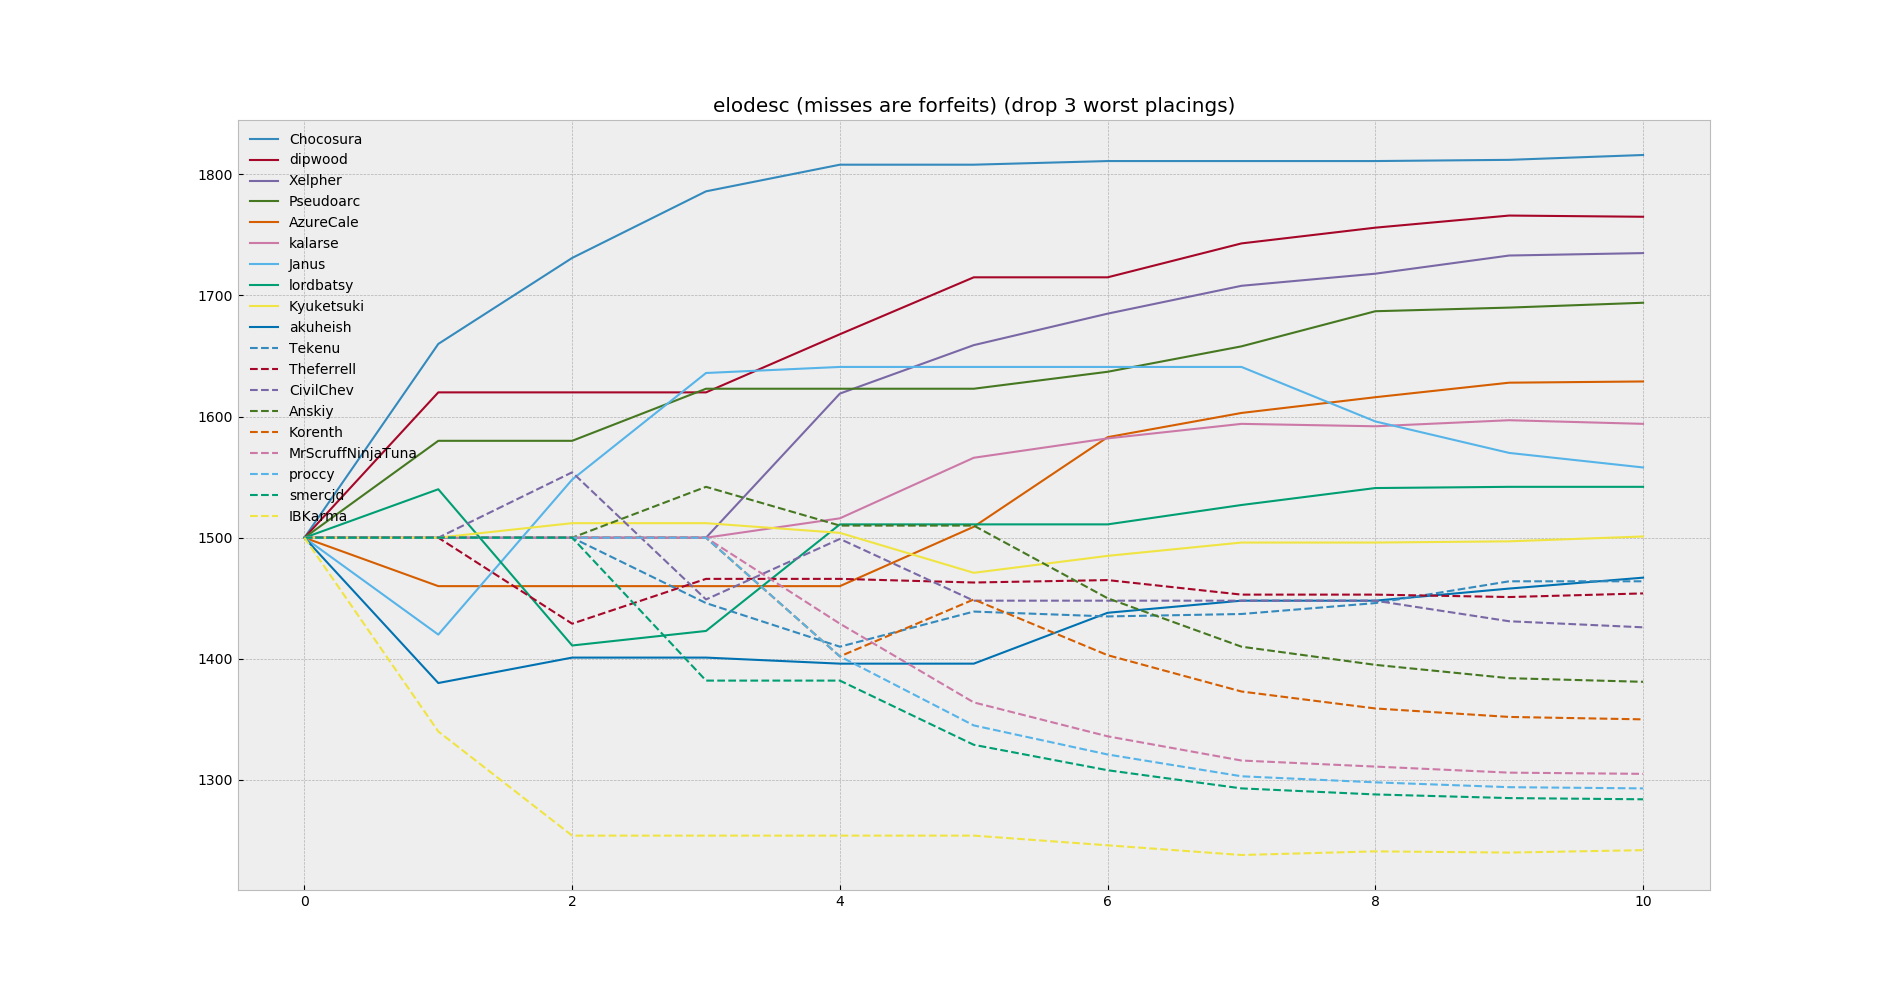
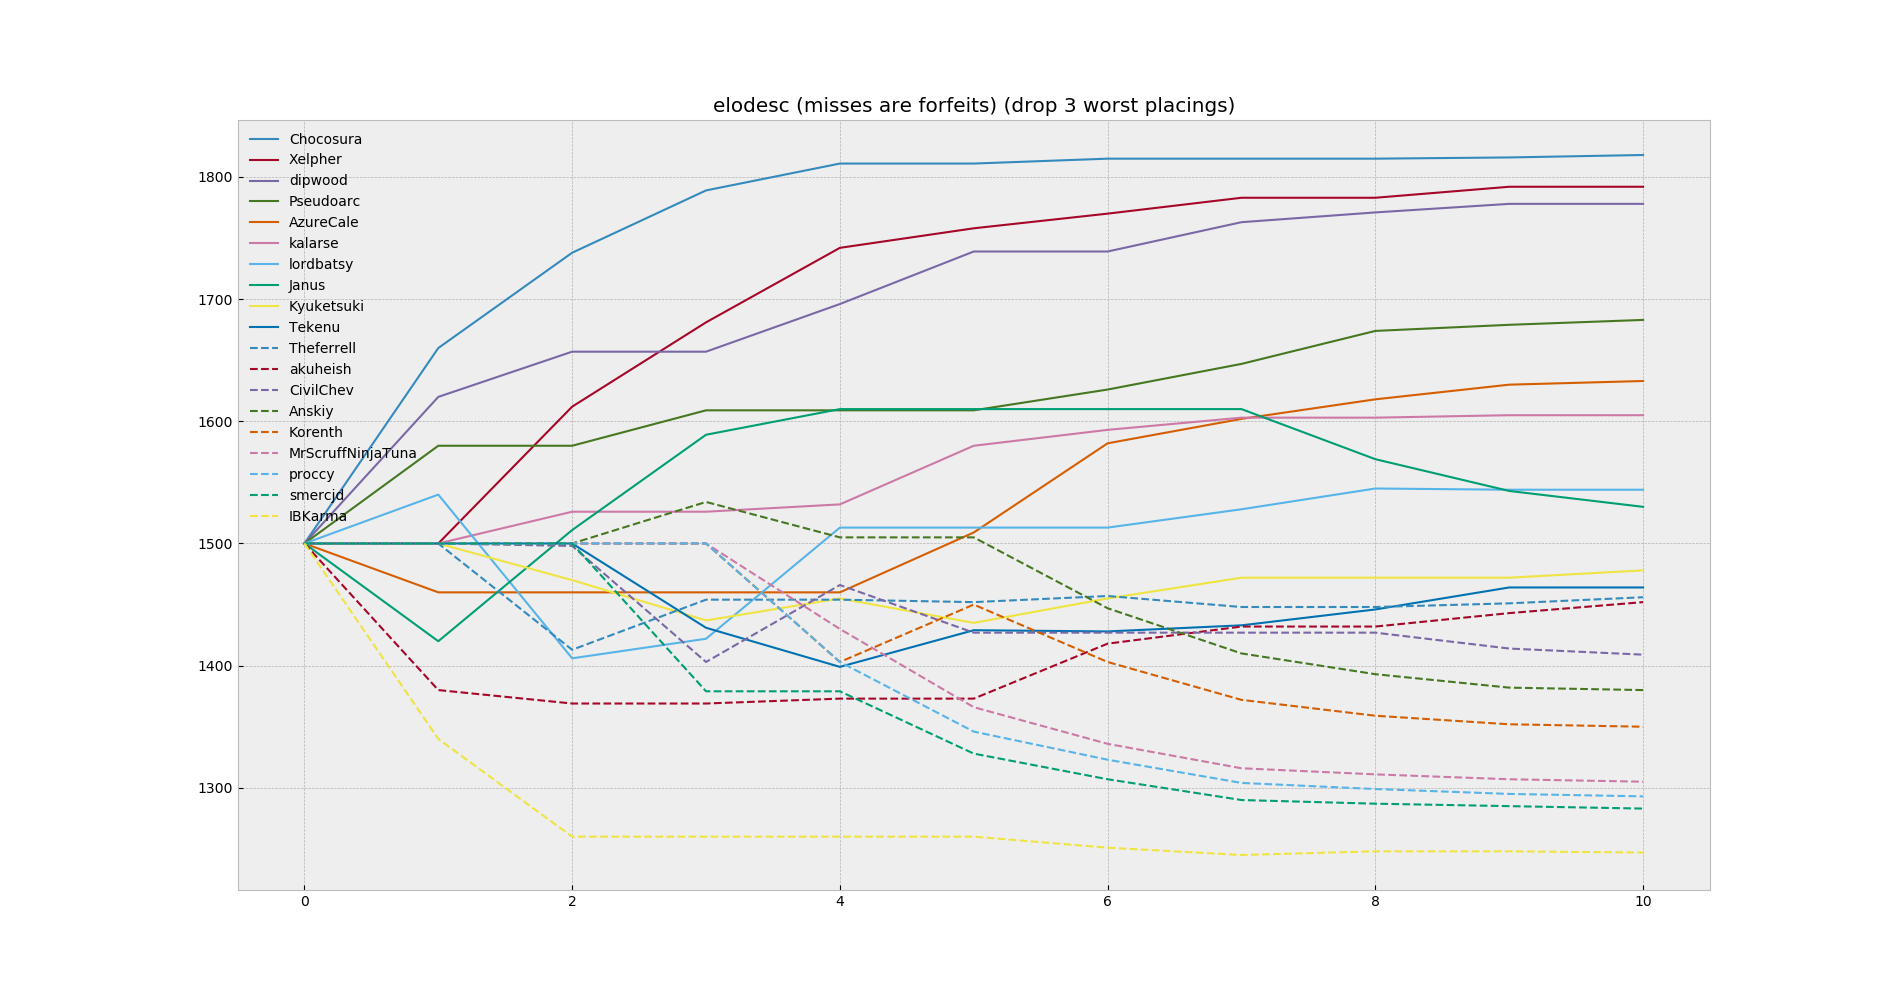
fix preprocess worst-n logic a bit

diff --git a/preprocess.py b/preprocess.py
@@ -67,7 +67,7 @@ def get_worst_n(races, n, bias_end=False):
                 placings[r] = 1000000
             if len(min_n) < n:
                 min_n.append(r)
-            elif placings[r] > max([placings[x] for x in min_n]):
+            elif placings[r] > min([placings[x] for x in min_n]):
                 # this is strictly worse, add it
                 toremove = min([placings[x] for x in min_n])
                 toremove_idx = [placings[x] for x in min_n].index(toremove)
@@ -80,7 +80,7 @@ def get_worst_n(races, n, bias_end=False):
                     min_n[toremove_idx] = r
         player_placings[player] = placings
         player_min_n[player] = min_n
-        print(player, min_n)
+        print(player, min_n, placings)
     return player_min_n
 
 def drop_worst_n(races, n, bias_end=False):
